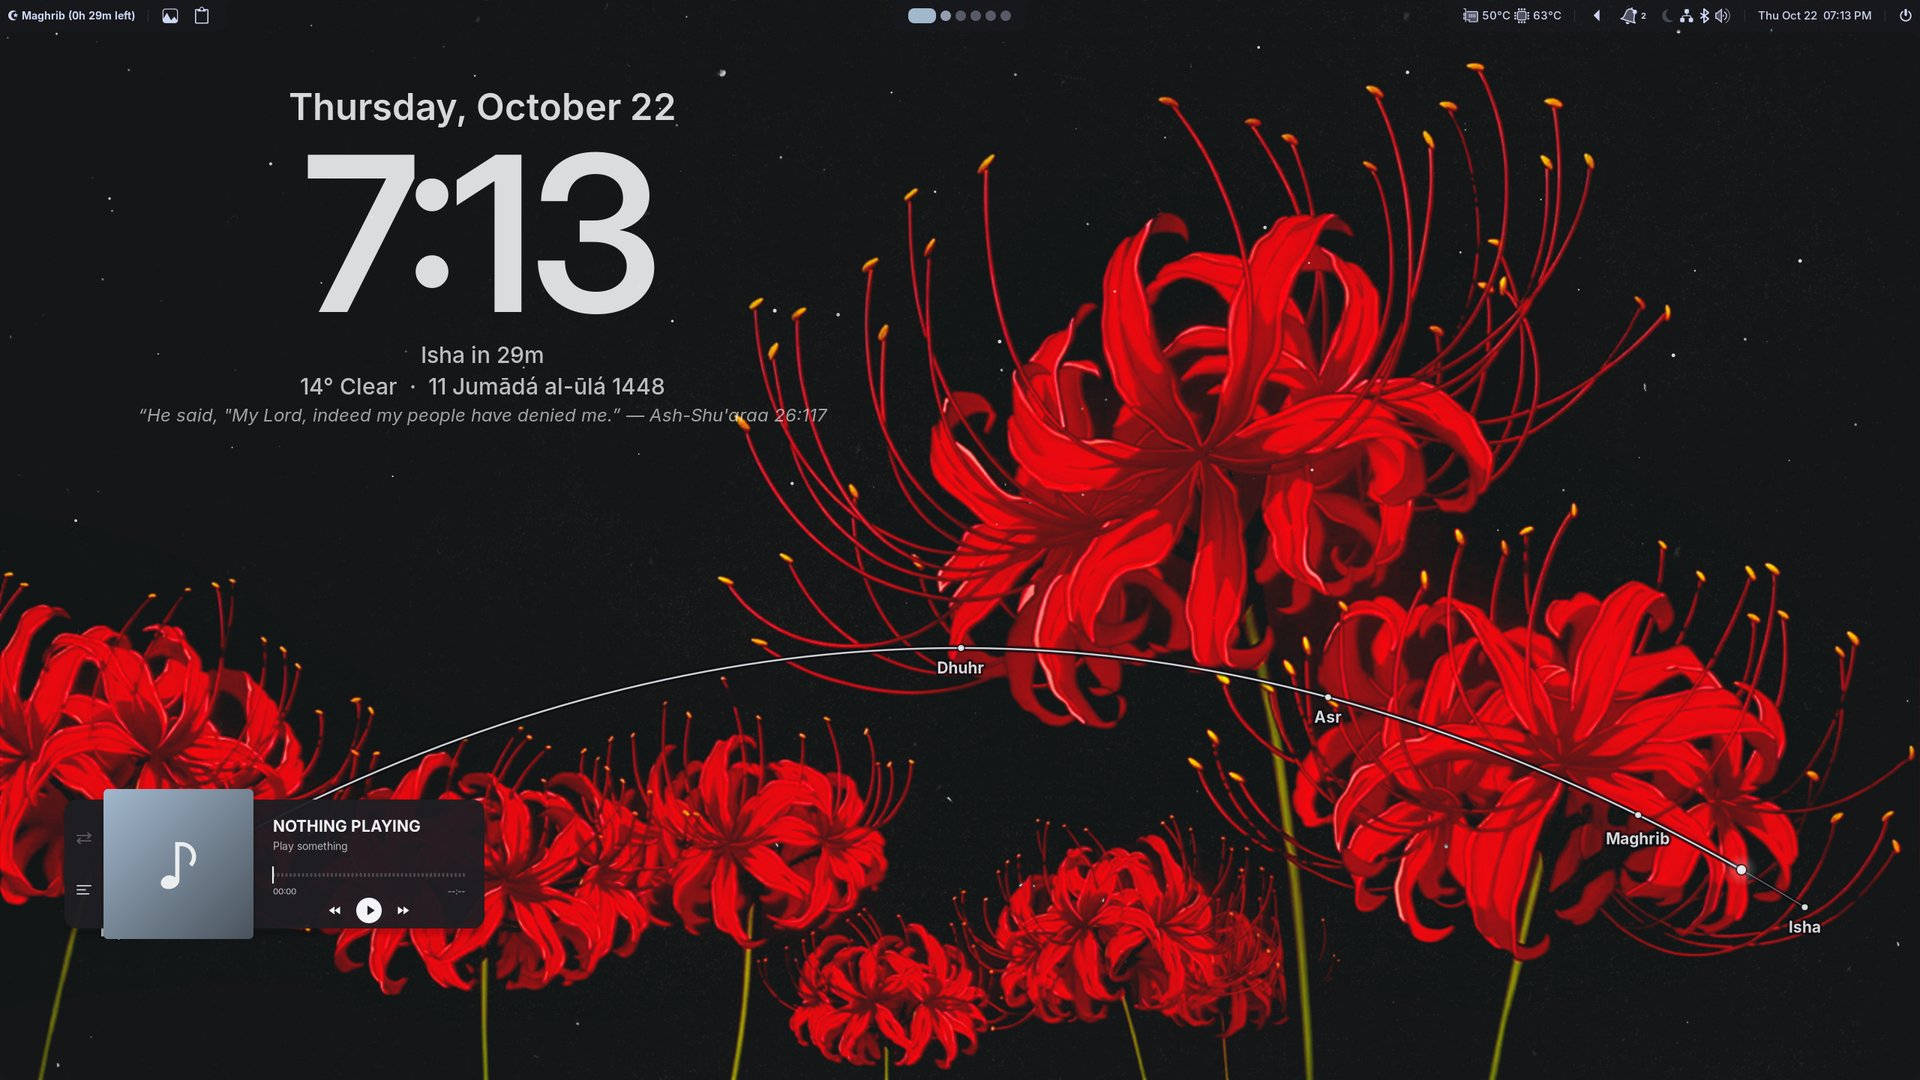
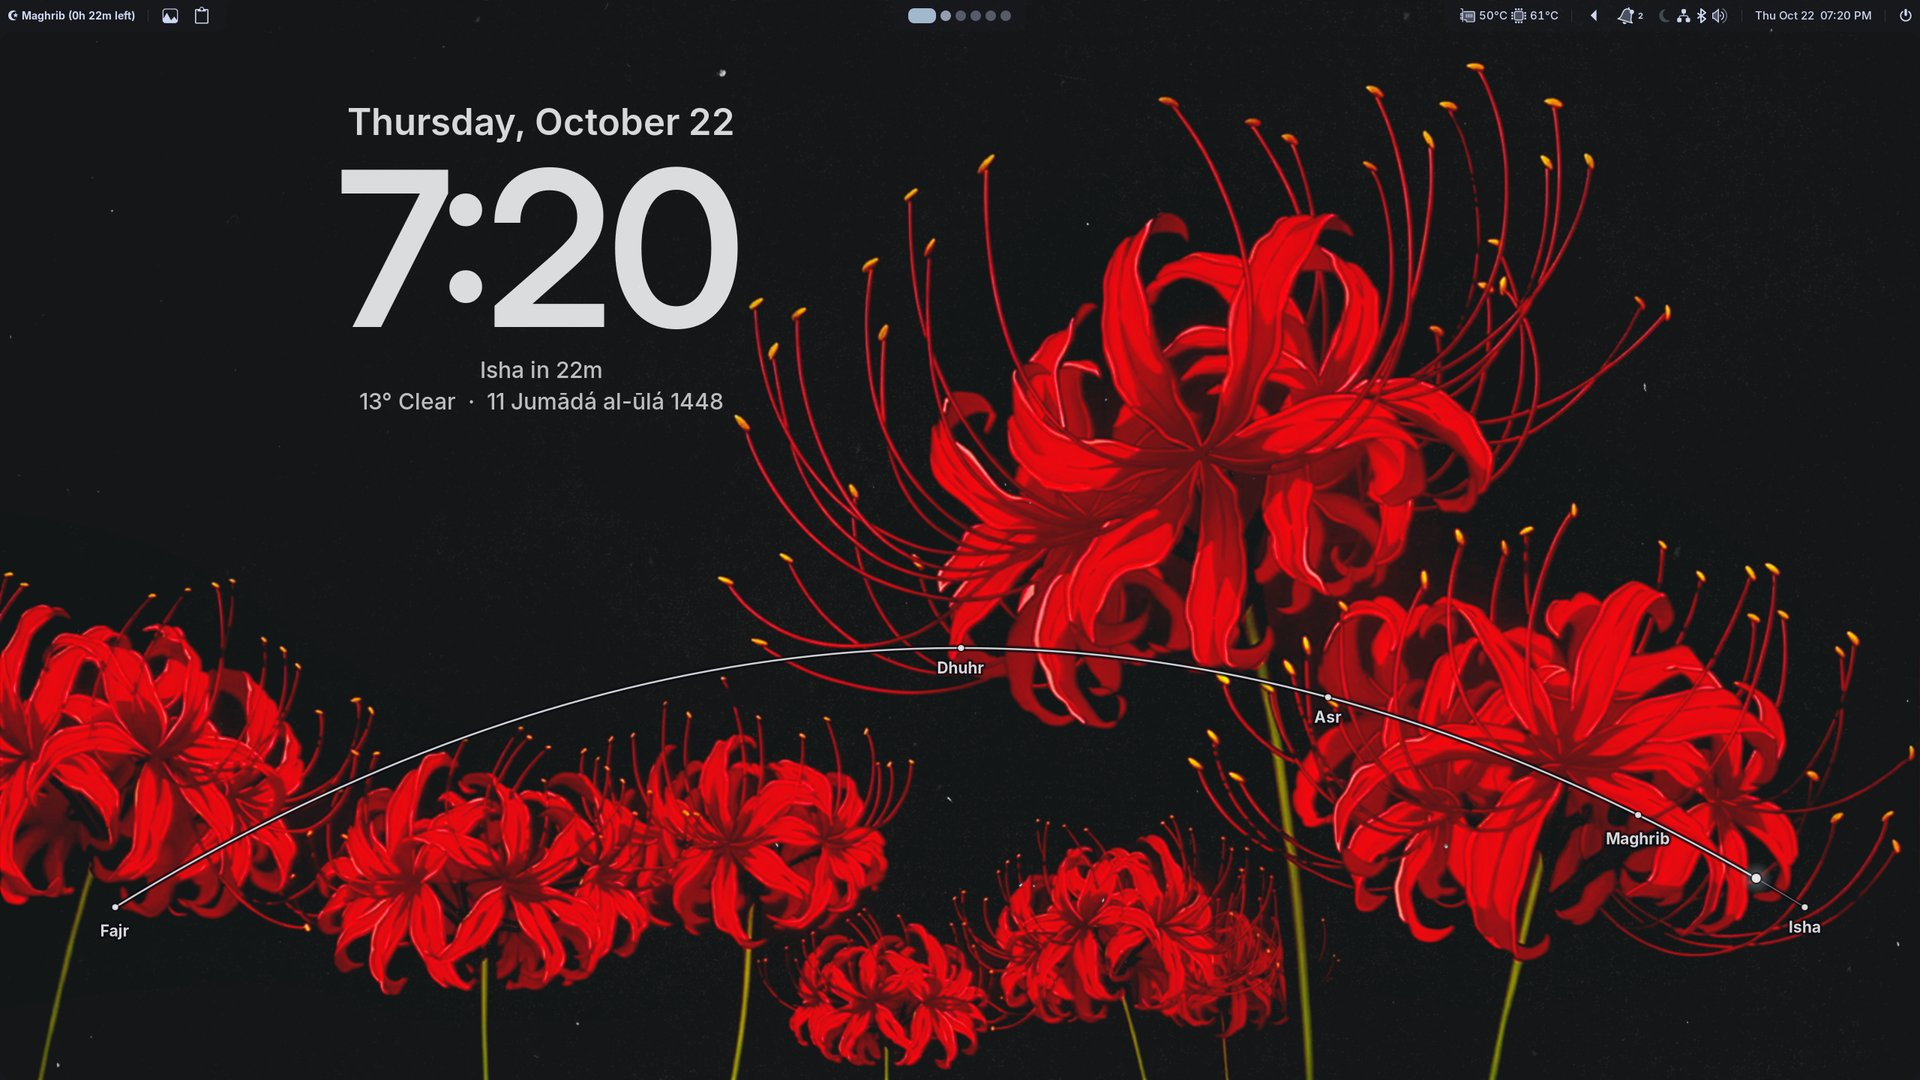
readme: retake the desktop screenshot with the real per-monitor settings
nested-profile: the nested cache's desktop settings are re-keyed from the
host monitors' names to WAYLAND-N, so per-monitor widget choices (e.g. no
"On this day" line or music player) carry over.

diff --git a/.claude/skills/nested-profile/scripts/nested.py b/.claude/skills/nested-profile/scripts/nested.py
@@ -162,8 +162,23 @@ def host_wallpapers() -> dict[str, str]:
     return walls
 
 
-def make_cache(base: Path) -> Path:
-    """~/.cache with every entry symlinked, except fabric's, which is copied."""
+def rename_monitors(cache: Path, names: dict[str, str]):
+    """Re-key the desktop's per-monitor settings from host monitor names to
+    the nested outputs' (WAYLAND-1 mirrors the leftmost host monitor, ...)."""
+    path = cache / "fabric" / "desktop_clock.json"
+    try:
+        settings = json.loads(path.read_text())
+    except (OSError, ValueError):
+        return
+    for key, value in settings.items():
+        if isinstance(value, dict) and set(value) & set(names):
+            settings[key] = {names.get(k, k): v for k, v in value.items()}
+    path.write_text(json.dumps(settings))
+
+
+def make_cache(base: Path, monitor_names: dict[str, str]) -> Path:
+    """~/.cache with every entry symlinked, except fabric's, which is copied
+    (with per-monitor settings renamed for the nested outputs)."""
     real = Path(os.environ.get("XDG_CACHE_HOME", Path.home() / ".cache"))
     cache = base / "cache"
     cache.mkdir(parents=True, exist_ok=True)
@@ -173,6 +188,7 @@ def make_cache(base: Path) -> Path:
             shutil.copytree(entry, target, symlinks=True, dirs_exist_ok=True)
         elif not target.exists():
             target.symlink_to(entry)
+    rename_monitors(cache, monitor_names)
     return cache
 
 
@@ -357,7 +373,9 @@ def _populate(
     ).stdout.split()
     nenv["DBUS_SESSION_BUS_ADDRESS"], state["dbus_pid"] = bus[0], int(bus[1])
     STATE_FILE.write_text(json.dumps(state, indent=2))
-    nenv["XDG_CACHE_HOME"] = str(make_cache(STATE_DIR))
+    nenv["XDG_CACHE_HOME"] = str(
+        make_cache(STATE_DIR, {m["name"]: n for m, n in zip(monitors, names)})
+    )
     inner = dict(env, **nenv)
 
     # hyprpaper with the host's wallpapers, monitor by monitor

diff --git a/readme.md b/readme.md
@@ -3,7 +3,7 @@
 My Hyprland desktop shell, built with [Fabric](https://github.com/Fabric-Development/fabric)
 (Python + GTK3 widgets on wlr-layer-shell) and packaged for NixOS with flakes.
 
-![The desktop: bar, clock, prayer arc and music player](screenshots/desktop.jpg)
+![The desktop: bar, clock and prayer arc](screenshots/desktop.jpg)
 
 | Quick settings | Launcher | Prayer times |
 |:---:|:---:|:---:|
